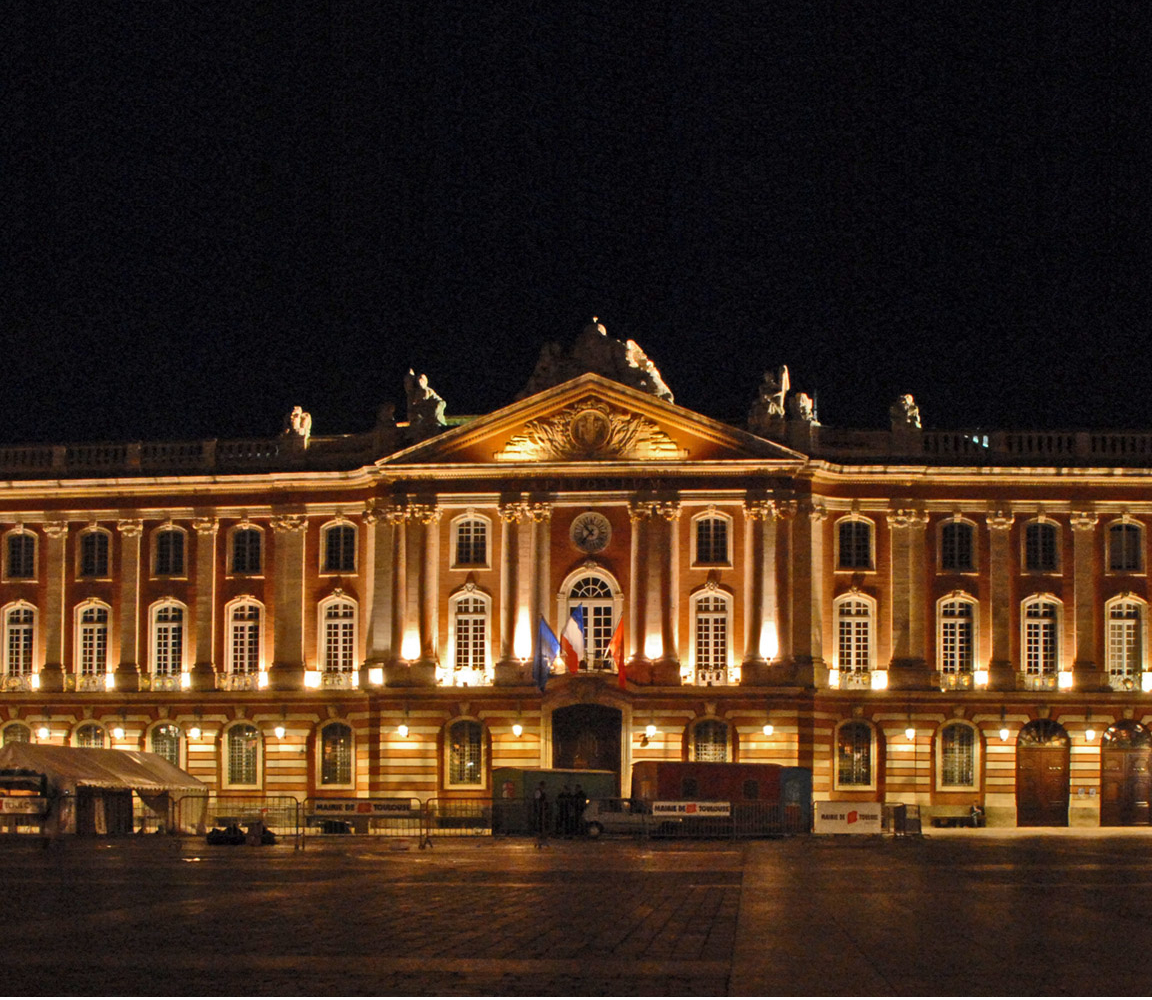
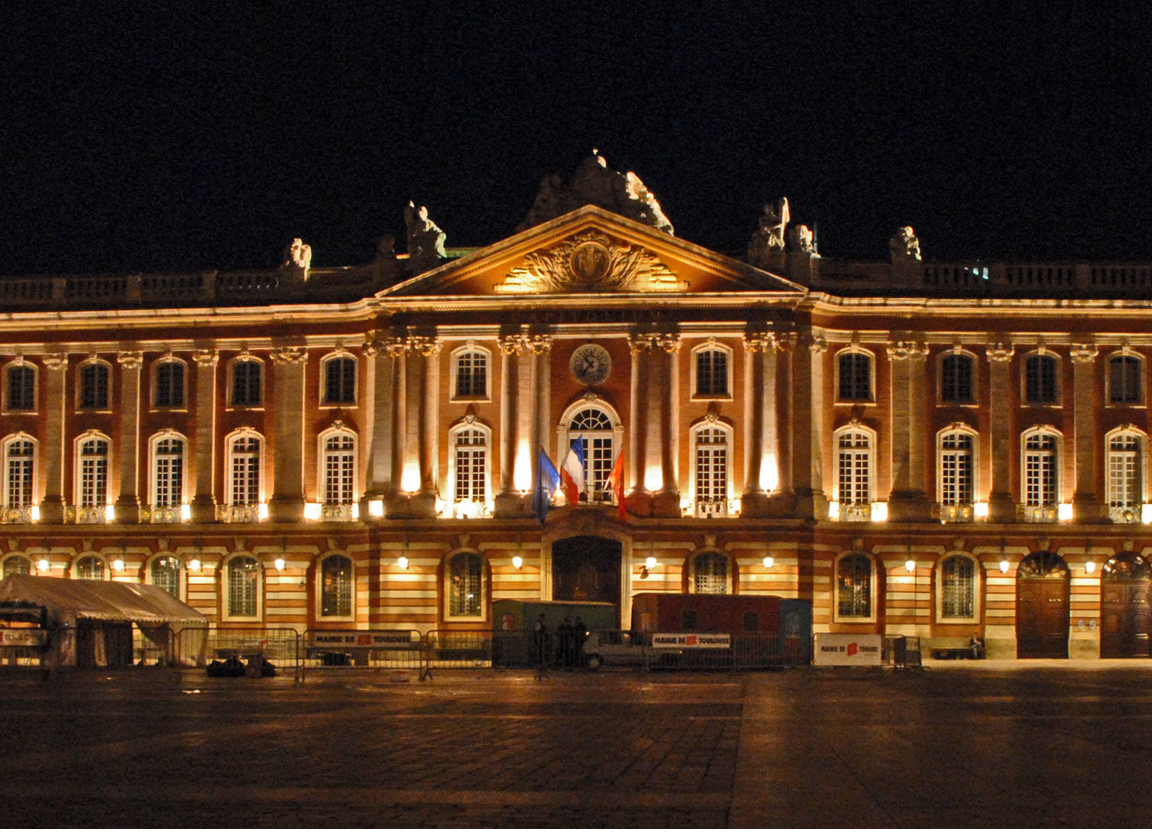
template

diff --git a/startbootstrap-agency-gh-pages/css/agency.css b/startbootstrap-agency-gh-pages/css/agency.css
@@ -123,7 +123,7 @@ header.masthead {
   -moz-background-size: cover;
   -o-background-size: cover;
   background-size: 100%;
-  height: 1000px; }
+  height: 832px; }
   header.masthead .intro-text {
     padding-top: 150px;
     padding-bottom: 100px; }
